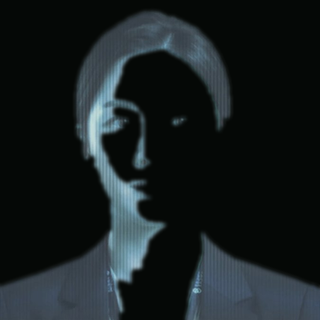
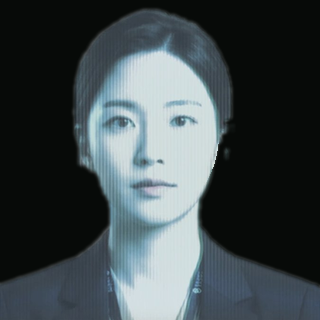
fix(ui): fix WATCHER-02 portrait background cutout preserving full facial details

diff --git a/tactical-ui/src/components/Watcher02CommsHUD.jsx b/tactical-ui/src/components/Watcher02CommsHUD.jsx
@@ -198,16 +198,9 @@ const Watcher02CommsHUD = () => {
                 {/* Square Black-Background Portrait (Image 3 processed) */}
                 <div className="w-[92px] h-[92px] bg-[#050806] border border-[#39e75f]/35 overflow-hidden relative shrink-0">
                   <img
-                    src="/watcher02_avatar.png"
+                    src="/watcher02_avatar.png?v=2"
                     alt="WATCHER-02"
                     className="w-full h-full object-cover"
-                  />
-                  <div
-                    className="absolute inset-0 pointer-events-none opacity-30"
-                    style={{
-                      backgroundImage:
-                        'repeating-linear-gradient(0deg, rgba(0,0,0,0.6) 0px, rgba(0,0,0,0.6) 1px, transparent 1px, transparent 2px)',
-                    }}
                   />
                 </div>
 
